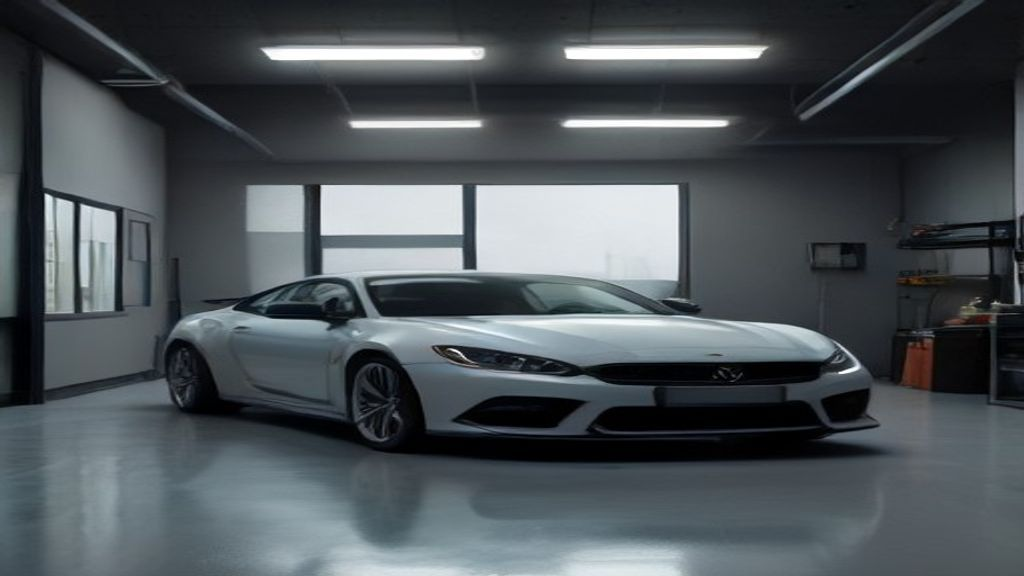
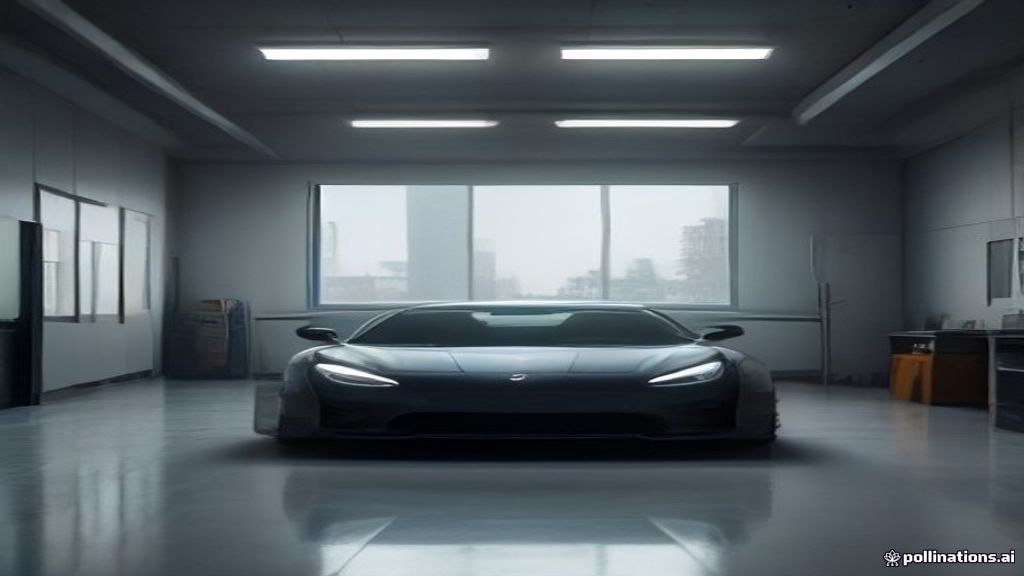
blog: the-invisible-shop-fix-why-your-crew-is-idle-and-how-to-get-

diff --git a/src/content/blog/the-invisible-shop-fix-why-your-crew-is-idle-and-how-to-get-.md b/src/content/blog/the-invisible-shop-fix-why-your-crew-is-idle-and-how-to-get-.md
@@ -1,99 +1,102 @@
 ---
 title: "The 'Invisible Shop' Fix: Why Your Crew is Idle and How to Get the Phone Ringing by Friday"
-description: "Stop guessing why your shop isn't showing up on Google. Learn the no-BS way to fix your local visibility and get more booked jobs this week."
-date: "2026-08-26"
+description: "Stop wondering why your shop isn't showing up on Google. Learn the no-BS way to fix your local visibility and get more booked jobs this week."
+date: "2026-09-13"
 author: "The Performance MAX Team"
 image: "/blog-images/the-invisible-shop-fix-why-your-crew-is-idle-and-how-to-get-.jpg"
-tags: ["local seo", "lead generation", "home services"]
+tags: ["Local SEO", "Lead Generation", "Home Services"]
 ---
 
-Last October, we sat down with Mike, who runs a high-end window tint and PPF shop out of Frisco. Mike is a master of his craft—his installs are flawless, and his customers love him. But when we looked at his calendar for the following Tuesday, he had two open bays and a crew sitting around drinking coffee.
+Last October, we sat down with Mike, who runs a high-end window tint and PPF shop over in Frisco. Mike has the best crew in Collin County. His work is flawless, his shop is clean, and his prices are fair. But he had a problem that was eating him alive: his bays were empty on Tuesdays and Wednesdays, and he was staring at a calendar with too many white spaces.
 
-Mike was frustrated. He’d spent the last year paying a "marketing guru" who sent him monthly reports filled with colorful charts showing "impressions" and "reach." The charts were going up, but the phone was silent. Even worse, Mike had tried the HomeAdvisor route, paying for "exclusive" leads that turned out to be shared with three other shops, or worse, people looking for a service he didn't even offer in a town he didn't service.
+Mike showed us his phone. He’d spent the last year paying for "exclusive" leads from those big-name national lead aggregators. He was paying hundreds of dollars a month for the privilege of chasing people who didn't even live in his zip code or, worse, people who wanted the cheapest possible job and didn't care about quality. 
 
-He felt like he was shouting into a void. He knew people in Frisco and Plano were searching for "ceramic tint" or "clear bra" every single hour, but for some reason, his shop was invisible.
+He was tired. He’d been burned by the "lead game" and was starting to think that Google just didn't like him. He told us, "I don't care about 'traffic' or 'brand awareness.' I just want the phone to ring with people who actually want to pay for PPF."
 
-If you’re running a crew in Dallas-Fort Worth, Raleigh, or anywhere in between, and you feel like you’re playing a guessing game with Google, you aren't alone. You don't need more "traffic." You need booked jobs.
+If you’re running a shop in Dallas, Raleigh, or anywhere in between—whether you're doing HVAC, plumbing, carpentry, or auto detailing—you know exactly how Mike felt. You don't want a "digital strategy." You want booked jobs.
 
-Here is exactly why your shop isn't showing up when people search, and the straight-talking way to fix it this week.
+Here is the cold, hard truth: if your shop isn't showing up when someone searches for your service in your town, you aren't losing "impressions." You are losing thousands of dollars in revenue to the guy down the street who might not be as good as you, but is easier for Google to find.
 
-### The "Vanity Metric" Lie
+Here is why you're invisible and how to fix it by Friday.
 
-Before we get into the fixes, we need to address the elephant in the room. Most agencies will try to sell you on "SEO" by showing you a graph of how many people "saw" your website. 
+### The "Lead Rental" Trap
+Before we get into the fix, we have to address the elephant in the room. Many of you have been burned by companies like HomeAdvisor or Angi. It’s not your imagination—the FTC literally fined some of these giants millions of dollars for selling the same lead to five different contractors or selling leads that didn't even match the trade.
 
-Let's be clear: **Impressions don't pay your payroll.** 
+When you buy those leads, you are renting your growth. You don't own the customer; you're just paying for a chance to compete in a race to the bottom on price. 
 
-If 10,000 people see your website but nobody picks up the phone to book a job, you don't have a marketing success—you have a hobby. When you're running a carpentry business or an HVAC company, you don't care about "brand awareness." You care about the phone ringing and the calendar being full of high-ticket jobs.
+The goal isn't to find a "better" lead provider. The goal is to own your own phone line. When a customer searches "best window tint Frisco" or "emergency plumber Cary NC," they shouldn't find a lead-gen landing page; they should find *your* shop.
 
-If you've been burned by the lead-rental scams (like the HomeAdvisor/Angi mess where millions in refunds were issued because the leads were garbage), you know the pain of paying for a "lead" that isn't actually a customer. The only way to stop that cycle is to own your own lead pipeline.
+### Why You’re Actually Invisible (The No-BS Version)
 
-### Why You’re Invisible (The Real Reasons)
+Google doesn't care how good your craftsmanship is. It cares about three things: **Relevance, Distance, and Prominence.**
 
-When a homeowner in Lewisville searches for "best plumber near me" or a car enthusiast in Cary searches for "PPF shop," Google isn't looking for the "best" business in terms of quality. It's looking for the most *reliable* answer.
+If you aren't appearing in the "Map Pack" (those top three businesses that show up with a map), it’s usually because of one of these three "Invisible Shop" glitches:
 
-If you aren't showing up, it usually comes down to three things:
+#### 1. The "Ghost Profile" Problem
+You probably have a Google Business Profile (GBP). You might have even put your phone number and address in there three years ago. But if you haven't touched it since, Google assumes you're out of business or don't care. 
 
-#### 1. The "Ghost Town" Profile
-You probably have a Google Business Profile (GBP), but it’s a ghost town. Maybe you set it up three years ago and never touched it again. If your profile has no recent photos of your actual work, no fresh reviews, and a description that looks like it was written by a robot, Google assumes you're out of business or don't care about your customers.
+Google rewards activity. If your competitor is posting a photo of a finished job every three days and you haven't posted since 2023, Google is going to send the phone call to them. Not because they are better, but because they are "alive."
 
-#### 2. The "Wrong Neighborhood" Signal
-Google relies on "proximity" and "relevance." If your business address is in one town, but you're trying to get jobs in a suburb 20 miles away without telling Google *how* you serve that area, you'll never show up in the "Map Pack" (those top three businesses that appear next to the map). You aren't fighting an algorithm; you're fighting a lack of local signals.
+#### 2. The "Vague Service" Gap
+If your website says "We provide quality home services," you are invisible. Nobody searches for "home services." They search for "leak repair in Lewisville" or "ceramic coating for Tesla in Arlington." 
 
-#### 3. The "Leaky Bucket" Website
-This is where most shops fail. You might actually be showing up in the search results, but when a customer clicks your site, they see a generic page that doesn't tell them three things immediately:
-*   Exactly what you do.
-*   Exactly where you do it.
-*   Exactly how to book you *right now*.
+If Google can't explicitly connect your business to a specific, high-intent search term, it won't risk putting you in front of a customer. You aren't being "too broad" to be professional; you're being too broad to be found.
 
-If they have to hunt for a phone number or fill out a 12-field contact form, they’re hitting the "back" button and calling the guy down the street. That’s a lost job.
+#### 3. The Review Dead-Zone
+We aren't talking about having a 4.2 vs. a 4.8. We are talking about *recency*. If your last five-star review was from eighteen months ago, a new customer is going to assume you've gone downhill. They will call the guy who got a review yesterday, even if he only has four stars.
 
-### How to Fix It This Week (The No-BS Checklist)
+### How to Fix This by Friday (The Action Plan)
 
-You don't need a six-month "strategy phase." You can start moving the needle on your booked jobs by Friday if you do these three things.
+You don't need a six-month agency contract to start seeing more calls. You can do these three things this week to start filling your calendar.
 
-#### Step 1: Feed the Machine (The 48-Hour Blitz)
-Google loves fresh data. It tells the system your shop is active and open for business.
-*   **The Photo Dump:** Take 10 photos of your crew working on a job today. Not stock photos—real photos of your shop, your trucks, and the finished product. Upload them to your Google Business Profile.
-*   **The Review Push:** Text your last five happy customers. Don't ask for a "favor." Tell them: *"Hey, we're trying to grow the local side of the business. Would you mind leaving us a quick review on Google? It helps us get more jobs in [Your Town]."*
-*   **The "Current Job" Post:** Use the "Update" feature on your Google profile. Post a photo of a job you just finished and write: *"Just wrapped up a full PPF wrap on this Porsche in Frisco. Ready for the next one. Call us to get on the calendar."*
+#### Step 1: The "Proof of Life" Update (Do this Tuesday)
+Log into your Google Business Profile. Do not worry about "optimizing" it with fancy keywords. Just do this:
+*   **Upload 5 real photos:** Not stock photos. Take a picture of your crew, your truck in a driveway, or a finished project in the shop. 
+*   **Post one "Update":** Write two sentences. "Just finished a full PPF wrap on a 2024 Porsche in Frisco. We have two spots open for next week. Call us to grab them."
+*   **Check your hours:** Make sure they are 100% accurate. Nothing kills a lead faster than a customer driving to a shop that says it's open but is actually closed.
 
-#### Step 2: Claim Your Territory
-Stop hoping Google knows where you work. Tell it.
-*   **Update Your Service Areas:** In your GBP settings, explicitly list every town and suburb you are willing to drive to. 
-*   **Local Landing Pages:** If you're a contractor in Raleigh but you want more jobs in Cary, you need a page on your website that says "Plumbing Services in Cary, NC." Not a generic "Services" page, but a page that mentions local landmarks, local neighborhoods, and local problems. This tells Google you are relevant to that specific area.
+**The Goal:** Tell Google you are open, active, and ready for work.
 
-#### Step 3: Kill the Friction
-Make it idiot-proof for a customer to give you money.
-*   **The "Click-to-Call" Button:** Your phone number should be a giant button at the top of your mobile site. No one wants to copy and paste a number.
-*   **The 30-Second Quote:** If you have a contact form, cut it down to the bare minimum. Name, Phone, Service Needed. That’s it. Every extra field you add is a reason for a lead to drop off.
+#### Step 2: The "Specific Service" Audit (Do this Wednesday)
+Look at your website. If you have a "Services" page that is just a bulleted list, fix it. 
 
-### The Honest Truth About Your Budget
+Create a simple page or a section specifically for your most profitable job. If you're a plumber, don't just list "Plumbing." Create a section for "Sump Pump Replacement in [Your City]." If you do window tint, create a section for "Clear Bra/PPF for Luxury Vehicles in [Your City]."
 
-When you start seeing the phone ring more, you're going to wonder how much you should be spending to keep the momentum going. 
+Use the exact words your customers use when they're stressed and searching on their phones. When the language matches, the phone rings.
 
-Stop listening to agencies that tell you "it depends" or try to lock you into a $5,000/month retainer without a plan. In the trades, there are real benchmarks based on your revenue.
+#### Step 3: The "Fresh Review" Push (Do this Thursday)
+Stop waiting for customers to remember to leave a review. They won't. Even the happy ones forget.
 
-*   **For shops doing under $1M in annual revenue:** You should typically be investing **5% to 10%** of your gross revenue back into marketing. If you're doing $500k, that's roughly $2,000–$4,000 a month. This is the "growth phase" where you're filling the calendar.
-*   **For shops doing $1M to $3M:** You should be investing **8% to 12%**. At this level, you aren't just looking for "any" job; you're looking for the *best* jobs—the high-ticket installs or the big contracts that make your crew more efficient.
+Go through your booked jobs from the last 30 days. Send a personal text to every single one: 
+*"Hey [Name], it's [Your Name] from [Shop Name]. Glad we could get that job done for you. Would you mind doing me a huge favor and leaving us a quick Google review? It helps our small shop more than you know. Here is the link: [Insert Direct Link]."*
 
-If you're spending more than 12% and the phone isn't ringing, you're being robbed. If you're spending less than 5% and your bays are empty, you're under-investing in your own growth.
+Five fresh reviews in one week can jump you from the 10th spot to the 3rd spot in the Map Pack almost overnight.
 
-### Owning Your Leads vs. Renting Them
+### The Math: What Should You Actually Spend?
 
-The biggest mistake we see local business owners make is "renting" their growth. 
+One of the biggest reasons shop owners get burned by agencies is that they don't have a benchmark for what "working" looks like. They get told a "monthly retainer" and it feels like a gamble.
 
-When you pay for a lead from a third-party site, you don't own that customer. You're paying a middleman for the privilege of competing with three other guys for a client who might not even be qualified.
+Marketing is an investment in your crew's hours. If you aren't sure what to spend to keep your bays full, use these industry benchmarks:
 
-When you fix your Google visibility and run your own lead engine, you **own the phone line**. The lead comes directly to you. You build the relationship. You own the data. If you decide to stop spending money on ads tomorrow, the Google Business Profile you've built and the reviews you've collected stay with you. They are an asset, like a new piece of equipment in your shop.
+*   **For shops doing under $1M in annual revenue:** You should typically spend **5-10% of your gross revenue** on marketing. If you're doing $500k, spending $2,500 to $4,000 a month to keep the phone ringing is a healthy target.
+*   **For shops doing $1M - $3M in annual revenue:** Your spend should be around **8-12%**. At this level, you aren't just looking for "any" job; you're looking to optimize for the highest-margin work (like full PPF packages over basic tint) to maximize your crew's efficiency.
 
-### Bottom Line: Does Your Marketing Pass the "Bank Account Test"?
+If you are spending 20% of your revenue just to get the phone to ring, your system is broken. If you are spending 1% and wondering why you're idle on Tuesdays, you're under-investing in your own growth.
 
-At the end of the month, there is only one metric that matters: **Did the money you spent on marketing result in more booked jobs and higher revenue than if you had just kept the money in your pocket?**
+### Stop Renting, Start Owning
 
-If your agency is showing you "impressions" while your crew is sitting idle, they are failing you. If you're paying for leads that don't match your trade or your area, you're being scammed.
+At the end of the day, you are a craftsman. You take pride in the fact that when a car leaves your shop or a pipe is fixed in a client's home, it's done right. You deserve a marketing system that works with that same level of integrity.
 
-You deserve a marketing system that works as hard as you do. You don't need jargon; you need a full calendar and a phone that doesn't stop ringing.
+You don't need a "funnel," you don't need "brand storytelling," and you certainly don't need to pay for shared leads that are sold to your three biggest competitors.
 
-If you're tired of the guesswork and want a straight-shooting partner to help you own your local market, let's talk. No fluff, no vanity metrics—just a plan to get your crew working and your revenue growing.
+You need a system where:
+1.  A local customer has a problem.
+2.  They search for a solution in their town.
+3.  Your shop appears as the obvious, trusted choice.
+4.  They click "Call," and your crew gets to work.
 
-**[Book a strategy call with the Performance MAX Team today.]**
+That is how you build a business that you actually own, rather than one that is dependent on the whims of a lead-gen company or a "magic" algorithm.
+
+If you're tired of staring at a quiet phone and you want to see if your shop is actually "visible" to the people in your city who are ready to pay, let's have a straight-talk conversation. No jargon, no fake promises—just a look at the numbers and a plan to fill your calendar.
+
+**[Book a Strategy Call with the Performance MAX Team]**
